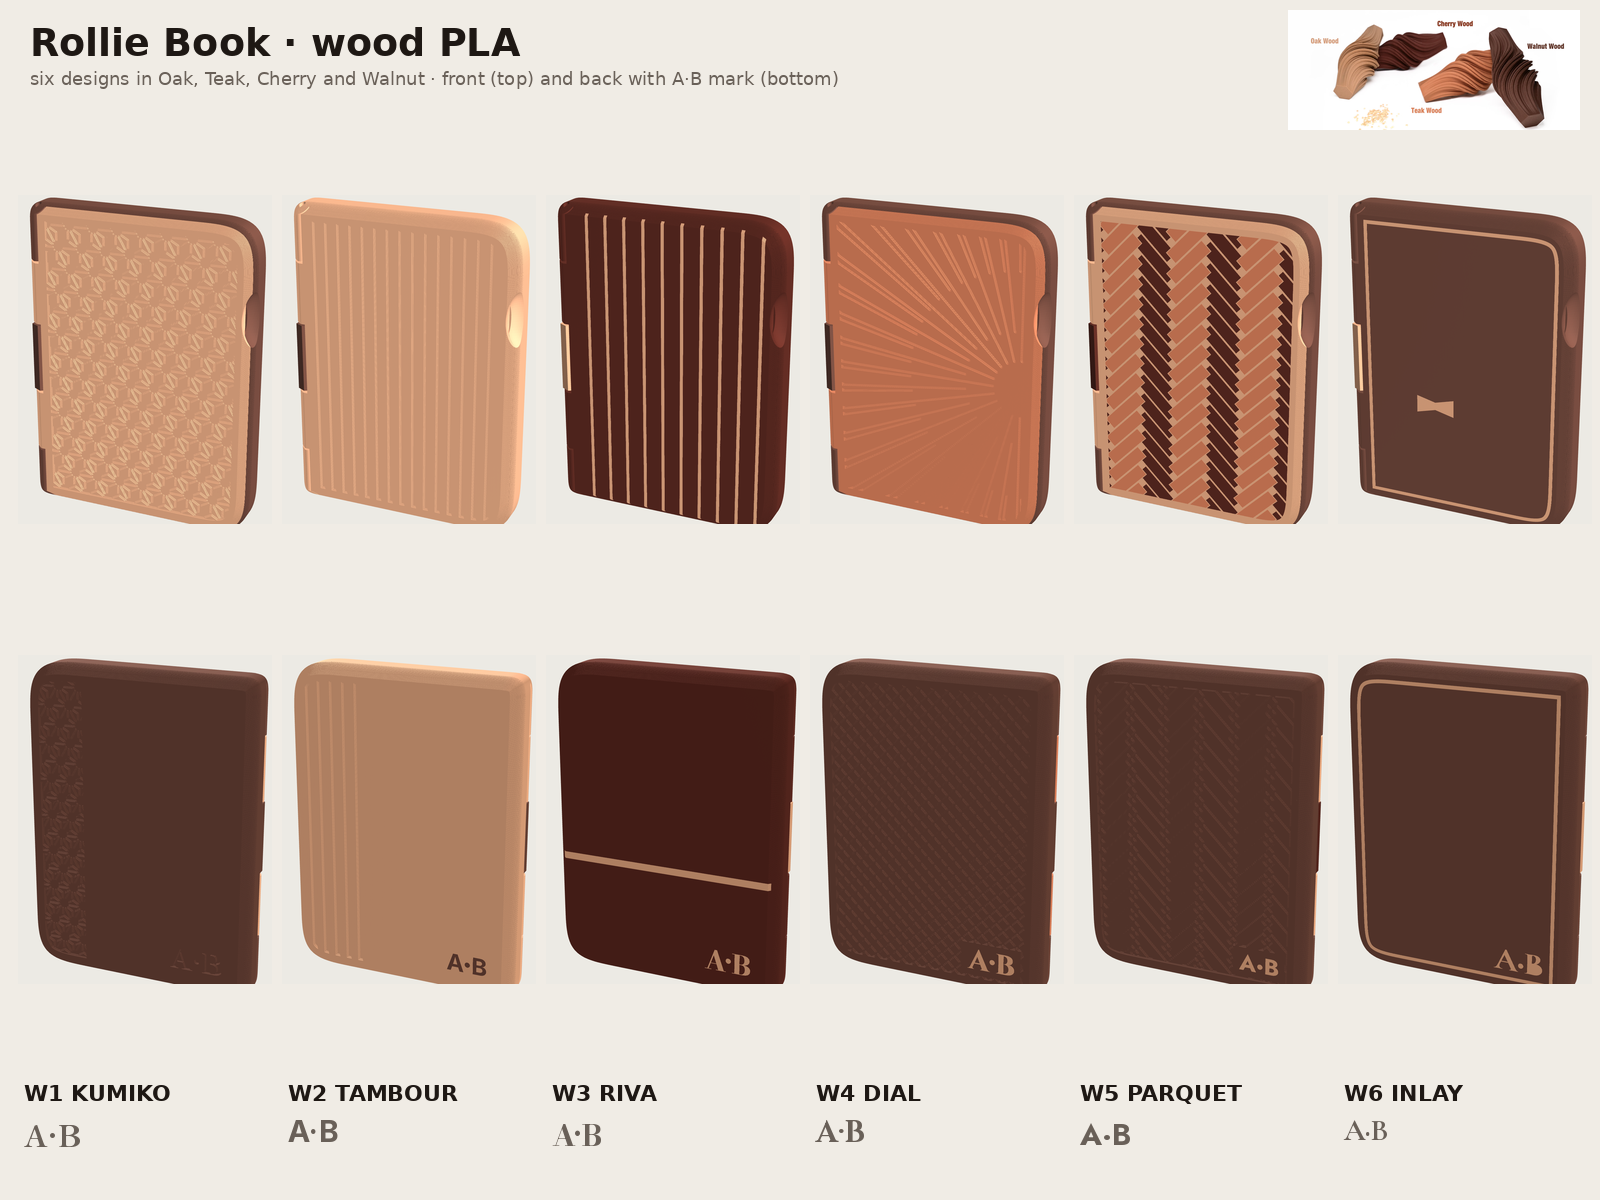
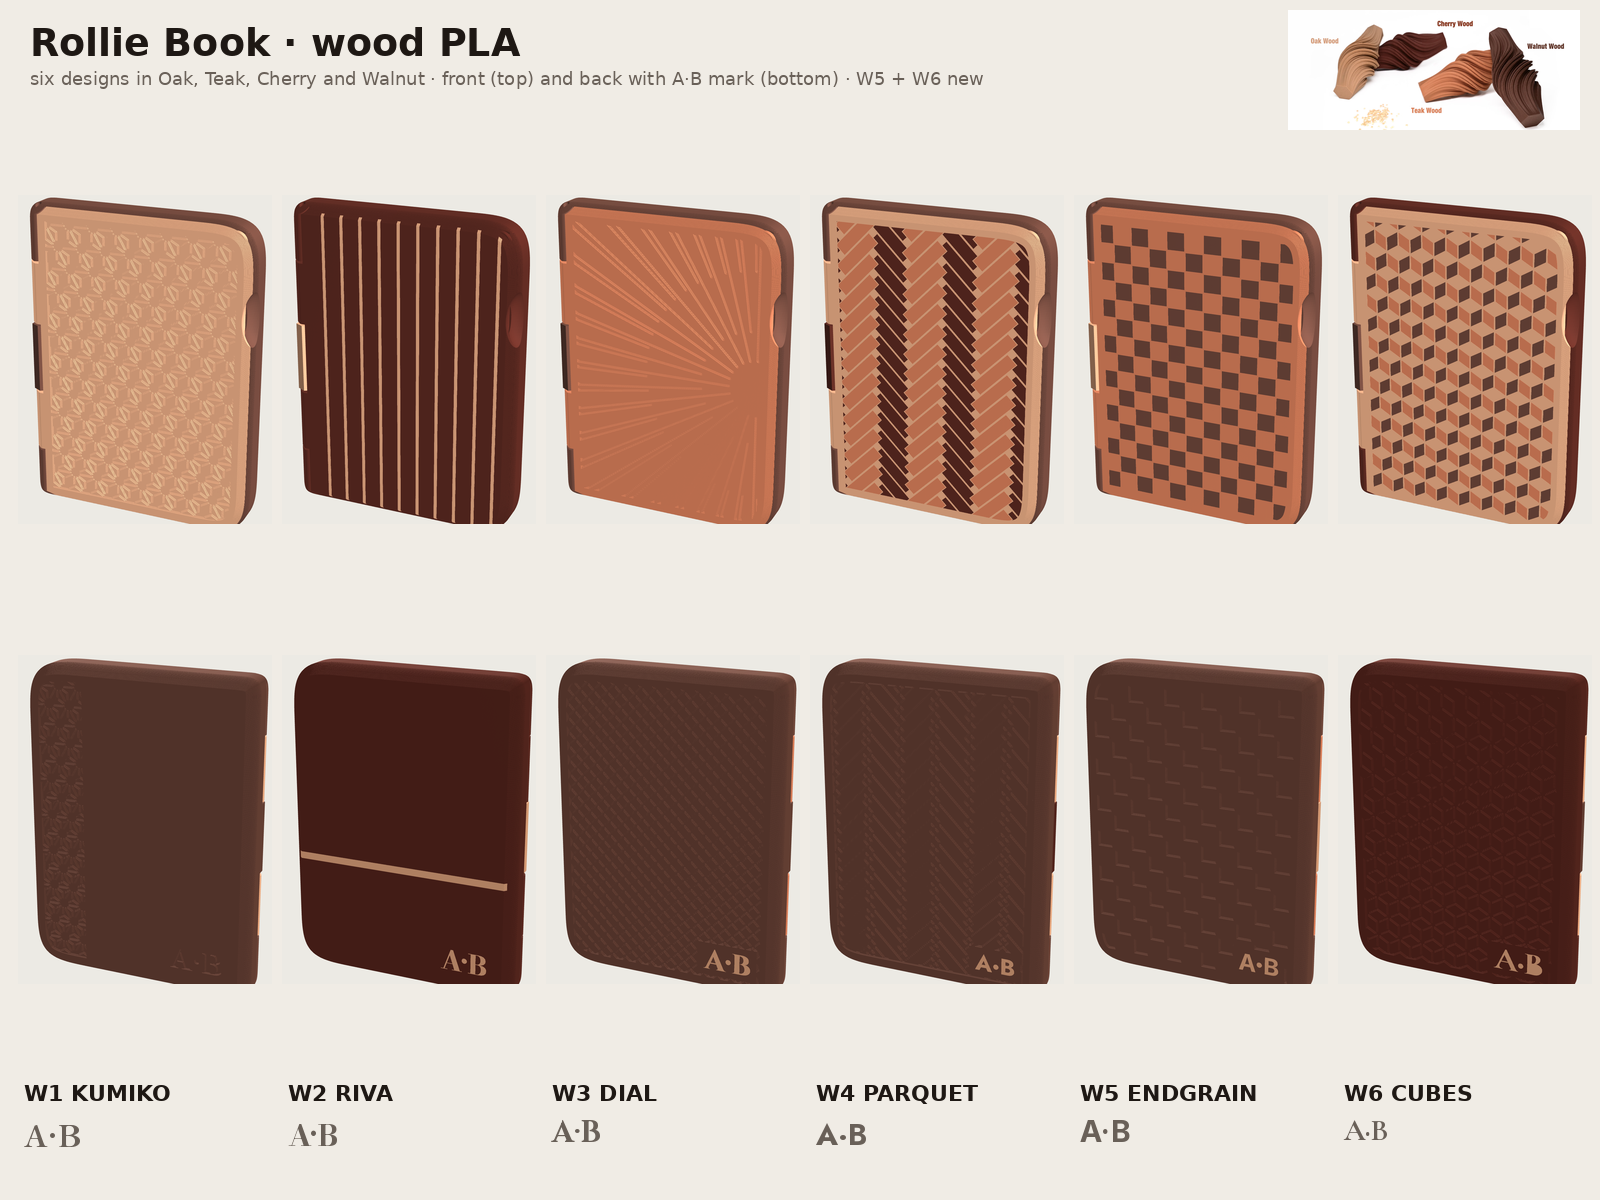
Wood PLA: ENDGRAIN + CUBES designs (replace TAMBOUR + INLAY), print guide, handover
- w_concepts: ENDGRAIN (teak lid with walnut chequer, walnut base with the chequer
  engraved tone-on-tone, Inter) and CUBES (oak/teak/walnut tumbling-block marquetry,
  cherry base with engraved cube outlines, Garamond). Both pass v7.checks with and
  without initials. Renders and boards W0-W6 regenerated (2 mm ends).
- wood-3mf/README.md: owner print guide (AMS slots, pauses at screen layers ~22/~87,
  polarity, glue procedure for the test files, verification summary, benign notes).
- HANDOVER: new section 0a for the wood line, incl. the import-order lesson.

Claude-Session: https://claude.ai/code/session_01YJ772HEYvenC3FkJzdBq79

diff --git a/edc-cigarette-case/v7-65x15x88/src/w_concepts.py b/edc-cigarette-case/v7-65x15x88/src/w_concepts.py
@@ -105,7 +105,7 @@ def tumbling_blocks(region, s=4.0, gap=0.4):
 
 def w_endgrain(k):
     F, B = full(k, 'f'), full(k, 'b')
-    return {'front': [(chequer(F), 'acc1')], 'back': [(grid_lines(B), 'engrave')]}
+    return {'front': [(chequer(F, c=5.2), 'acc1')], 'back': [(chequer(B, c=5.2, gap=0.9), 'engrave')]}
 def w_cubes(k):
     F, B = full(k, 'f'), full(k, 'b')
     lf, rf, _ = tumbling_blocks(F)
@@ -129,10 +129,10 @@ DESIGNS = {
                  font='Jost-Bold.ttf', fontname='Jost (Futura-like, European modernism)', cap=5.0, thick=0.0, fn=w_parquet,
                  idea='Marquetry: a herringbone of teak and cherry staves laid into an oak lid, the oak showing as fine joints. All four woods in one case; the walnut back carries the pattern engraved.',
                  front='Teak and cherry herringbone with oak joints', back='Engraved herringbone outlines; oak A·B in the corner'),
- 'endgrain': dict(name='ENDGRAIN', craft='Danish end-grain butcher blocks', cover='oak', tray='teak', sleeve='walnut', acc1='walnut', mono='walnut',
+ 'endgrain': dict(name='ENDGRAIN', craft='End-grain butcher blocks and two-tone chequered luggage canvas', cover='teak', tray='walnut', sleeve='oak', acc1='walnut', mono='oak',
                  font='Inter-Bold.ttf', fontname='Inter (Helvetica-like, Scandinavian modern)', cap=5.0, thick=0.0, fn=w_endgrain,
-                 idea='The lid is a butcher block seen end-on: an oak and walnut chequer, edge to edge. The teak base carries the block joints as a fine engraved grid.',
-                 front='Oak and walnut chequer, full face', back='Engraved block grid; walnut A·B in the corner'),
+                 idea='Two browns, one fine chequer: walnut blocks set into a teak lid like an end-grain board, the quiet two-tone check of old travel trunks. The walnut base repeats the chequer, engraved tone-on-tone.',
+                 front='Teak and walnut chequer, full face', back='Engraved chequer, tone-on-tone; oak A·B in the corner'),
  'cubes':   dict(name='CUBES', craft='18th-century French marquetry à cubes (tumbling blocks)', cover='oak', tray='cherry', sleeve='walnut', acc1='walnut', acc2='teak', mono='oak',
                  font='CormorantGaramond-Bold.ttf', fontname='Garamond (the French ébénistes’ typeface)', cap=6.0, thick=0.12, fn=w_cubes,
                  idea='Stacked cubes in three woods: oak tops, teak and walnut sides, the 3D illusion of Louis XV marquetry. A cherry base with the cube outlines engraved.',

diff --git a/edc-cigarette-case/v7-65x15x88/src/render/w_board.py b/edc-cigarette-case/v7-65x15x88/src/render/w_board.py
@@ -48,13 +48,13 @@ for n, k in enumerate(order, 1):
         d.text((x, y), title, fill=INK, font=F(15, True)); y += 23
         for line in textwrap.wrap(c[key], 44): d.text((x, y), line, fill=INK, font=F(16)); y += 22
         y += 6
-    d.text((x, 1120), 'rounded inside · 3 mm ends · light infill', fill=SUB, font=F(14))
+    d.text((x, 1120), 'rounded inside · 2 mm ends · light infill', fill=SUB, font=F(14))
     d.text((x, 1142), '2 × Ø5×2 magnets per half, corners, ≈175 g close', fill=SUB, font=F(14))
     d.text((x, 1164), 'crescent thumb scoop · pinch zone · 65 × 13.5 × 88', fill=SUB, font=F(14))
     im.save(f'{OUT}/W{n}_{k}.png')
 im = Image.new('RGB', (1600, 1200), BG); d = ImageDraw.Draw(im)
 d.text((30, 20), 'Rollie Book · wood PLA', fill=INK, font=F(38, True))
-d.text((30, 68), 'six designs in Oak, Teak, Cherry and Walnut · front (top) and back with A·B mark (bottom)', fill=SUB, font=F(18))
+d.text((30, 68), 'six designs in Oak, Teak, Cherry and Walnut · front (top) and back with A·B mark (bottom) · W5 + W6 new', fill=SUB, font=F(18))
 if PHOTO:
     p = fit(Image.open(PHOTO).convert('RGB'), 420, 120); im.paste(p, (1600 - 20 - p.width, 10))
 for i, k in enumerate(order):

diff --git a/edc-cigarette-case/v7-65x15x88/wood-3mf/README.md b/edc-cigarette-case/v7-65x15x88/wood-3mf/README.md
@@ -1,0 +1,101 @@
+# Rollie Book · wood PLA · print files (A1 + AMS lite)
+
+Ten Bambu Studio projects:
+- **8 production files:** the 4 approved designs, each with and without A·B.
+- **2 test prints** to run before the magnets arrive.
+
+Every file is one plate, printed **by object**, on the **0.16 mm High Quality @BBL A1** profile, with **Bambu PLA Wood @BBL A1** in all four slots.
+
+## Load the AMS lite once, the same for every design
+| Slot | 1 | 2 | 3 | 4 |
+|---|---|---|---|---|
+| Wood | **Oak** | **Teak** | **Cherry** | **Walnut** |
+
+Use the **textured PEI plate**. Each file has a 3 mm brim, no supports and no prime tower (the A1 purges into its chute).
+
+## The files
+
+**Production** (magnets sealed in, self-pausing):
+
+| Design | With A·B | Without initials | Woods used | Colour swaps | Time* | Filament* |
+|---|---|---|---|---|---|---|
+| **KUMIKO** | `AB_Rollie_Book_Kumiko_wood_A1.3mf` | `Rollie_Book_Kumiko_wood_A1_no_initials.3mf` | Oak, Walnut | 2 | 1 h 41 m | 34 g |
+| **RIVA** | `AB_Rollie_Book_Riva_wood_A1.3mf` | `Rollie_Book_Riva_wood_A1_no_initials.3mf` | Cherry, Oak | 11 | 1 h 44 m | 34 g |
+| **DIAL** | `AB_Rollie_Book_Dial_wood_A1.3mf` | `Rollie_Book_Dial_wood_A1_no_initials.3mf` | Teak, Walnut (+ Oak A·B) | 7 / 2 | 1 h 55 m / 1 h 50 m | 35 g |
+| **PARQUET** | `AB_Rollie_Book_Parquet_wood_A1.3mf` | `Rollie_Book_Parquet_wood_A1_no_initials.3mf` | all four | 16 / 12 | 2 h 09 m / 2 h 05 m | 35 g |
+
+**Test prints** (magnets glued in afterwards, no pauses):
+
+| Design | File | Time* | Filament* |
+|---|---|---|---|
+| **KUMIKO** | `TEST_AB_Rollie_Book_Kumiko_wood_A1_glue_magnets.3mf` | 1 h 38 m | 29.5 g |
+| **RIVA** | `TEST_AB_Rollie_Book_Riva_wood_A1_glue_magnets.3mf` | 1 h 37 m | 28.8 g |
+
+\* Times and weights come from the A1-emulated slice. Bambu Studio's estimate will run longer on the multi-colour files: each colour swap adds about a minute, and each purge 0.2–0.5 g.
+
+## Production files: the magnet pauses
+You need **4 × Ø5 × 2 mm magnets** per case.
+
+**The pauses:**
+- The printer **chimes and pauses itself twice**: first on the **cover** (screen layer ≈ **22**, z 3.56), then on the **tray** (screen layer ≈ **87**, z 8.36).
+- At each pause, drop **both** magnets into the two round corner pockets, press them flat, then press **Resume**.
+- **If a pause doesn't happen,** pause by hand as soon as the screen shows layer 22 or 87. The pocket is still open at that point.
+
+**Polarity** (do this once, before printing):
+1. Stack all four magnets in one column.
+2. Mark the **top** face of each one with a pen.
+3. **Cover:** marked face **UP**. **Tray:** marked face **DOWN**.
+
+The two halves then attract when the case is closed. 0.8 mm of wood (5 layers) seals over each magnet. The pull is about 175 g (N35 estimate).
+
+## Test files: how they differ, and how to glue
+| | Production | **Test** |
+|---|---|---|
+| Magnets | Sealed in at a pause | **Pockets left open**: glue the magnets in afterwards |
+| Pauses | 2, with chime | **None** |
+| Walls / infill | 3 walls, 15 % gyroid | **2 walls, 10 % gyroid** |
+| Shells | Top 5 (min 1.0 mm), bottom 4 | **Top 5 (min 0.8 mm), bottom 3** |
+| Shape, patterns, A·B, hinge | — | **Identical** |
+| Filament | — | **About 12–16 % less** |
+
+The case is mostly solid wall, so lighter infill only saves 4–6 g per case. The test is still representative:
+- **Fit:** the hinge, closure and rollie fit are exactly as in production.
+- **Pull:** the pocket floor is at the production magnet depth, so with the magnet glued to the floor the pull matches production.
+
+**Gluing (super glue / CA gel):**
+1. Lay the parts **inside-up**, the way they came off the plate.
+2. Put a small drop of glue on the **floor** of each pocket.
+3. Drop the magnet in using the same polarity rule as production: **cover marked UP, tray marked DOWN**.
+4. Push it flat with a **toothpick**. Steel tweezers will pull it back out.
+5. **Let the glue cure for 5–10 minutes before closing the case.** Uncured magnets jump out of their pockets towards each other.
+
+## Wood PLA notes
+- **Nozzle:** use a **hardened-steel nozzle**. Wood fibres are mildly abrasive and can clog. Go up to 0.6 mm if you get clogs.
+- **Drying:** dry the spools first (55 °C, 8 h).
+- **Temperatures:** the preset prints at 220 °C, with the bed at 65 °C.
+- **Hinge pin:** use 1.75 mm **PETG** filament.
+- **Heat:** PLA softens at about 55–60 °C, so **don't leave the case in a hot car**.
+
+## How these were checked
+Each file was checked by `src/w_verify.py`, which reads **only the 3MF**. All 10 print **ALL PASS**; the full reports are in `checks/`. The checks:
+1. **Bambu loader check**, emulated from Bambu's source at v02.03.01.51, v02.08.04.61 and v02.09.01.70. The output is identical to the 26-flag baseline that loads fine.
+2. **Settings:**
+   - the same 366 keys, in the same order, as the v7.0 file that opened in Bambu Studio;
+   - 4 × Bambu PLA Wood;
+   - by object, with no prime tower.
+3. **Plate:**
+   - print order is cover → tray → sleeve;
+   - every mesh is valid;
+   - A1 by-object clearance is met;
+   - every inlay and the A·B sit in the first 5 layers, so there are no colour swaps up the walls;
+   - the R4.5 rounded long edges are present.
+4. **Magnet pockets,** sliced layer by layer:
+   - **Production:** open on every layer up to each pause and sealed by the layer the printer pauses before.
+   - **Test:** open from the floor right up to the face.
+5. **A1-emulated slice of the file itself:**
+   - **Production:** exactly 2 pauses, cover then tray, at the right layer.
+   - **Test:** no pauses.
+
+**Expected slicer notes (benign):**
+- **"Floating bridge anchors"** on each production cover: this is the 5-layer roof over the sealed magnet pocket. The magnet sits 0.24 mm under it, and the note disappears in the open-pocket test files.
+- **"Long bridging" / "Loose extrusions"** on parts with **engraved** patterns (KUMIKO, the DIAL and PARQUET backs): these are the 45° stepped groove ceilings in the first 3 face-down layers. An A/B slice placed them all below z 0.7 and showed they don't depend on infill. RIVA has no engraving and shows neither.

diff --git a/edc-cigarette-case/HANDOVER.md b/edc-cigarette-case/HANDOVER.md
@@ -1,6 +1,6 @@
 # HANDOVER: EDC rollie case ("AB Rollie Book"). Read this first.
 
-> **Written 22 Nov 2026, 15:40 UTC; updated 23 Nov 2026 for v7.1 (first-print feedback).** This file is self-contained: a new session with only this repository can pick up the work, rebuild every file byte-for-byte, and continue. Every command below was run and checked before handover.
+> **Written 22 Nov 2026, 15:40 UTC; updated 23 Nov 2026 for v7.1 (first-print feedback) and 24 Nov 2026 for the wood PLA line (§0a, read that first).** This file is self-contained: a new session with only this repository can pick up the work, rebuild every file byte-for-byte, and continue. Every command below was run and checked before handover.
 
 ---
 
@@ -16,6 +16,46 @@
 | **Backup fallback files** | `..._geometry_only_<design>.3mf`. Same parts and filaments, no print profile, so it uses the owner's own A1 presets and has **no automatic pauses**: pause by hand at screen layers 25 and 82. |
 | **Repo** | `grishatg/3D-PRINTS`, folder `edc-cigarette-case/`. v7.0 arrived via merged PR grishatg/3D-PRINTS#1. v7.1 is on branch **`claude/hopeful-thompson-ysz39k`**, in draft PR **grishatg/3D-PRINTS#2** (https://github.com/grishatg/3D-PRINTS/pull/2). If that PR has been merged, `main` has everything. |
 | **Backup** | The original home was `grishatg/General-`, branch `claude/elegant-turing-9djtl2`. That branch is kept as a backup, with a copy of this handover; its PR (grishatg/General-#3) was closed, not merged, when the project moved. |
+
+---
+
+## 0a. Wood PLA line (24 Nov 2026): the CURRENT work. Read this before §0
+
+**What the owner prints now:** wood PLA (Bambu PLA Wood: Oak, Teak, Cherry, Walnut) on the **v10 platform**. §0–§8 describe the PETG v7.1 line, which still stands and still rebuilds identically.
+
+**The v10 platform** is `PLATFORM=v10` plus the env that `v8_concepts` / `v9_concepts` / `w_concepts` set:
+- **Shape:** squircle outline, R4.5 rounded long edges, crescent thumb scoop, pinch dishes.
+- **Ends and inside:** **2 mm** end walls (owner: "go 2mm"); rounded inside (cavity R2.5, floor fillet R1.2, capsule ribs, rounded lip).
+- **Magnets:** two **Ø5 × 2** magnets per half, at the opening-edge corners, sealed under **0.8 mm**. The estimated pull is about 175 g (owner target 150–200 g).
+- **A·B:** a maker's mark in the back-plate corner on the hinge side, in the first 4 face-down layers.
+
+| Item | Where / state |
+|---|---|
+| **Designs** | `v7-65x15x88/wood-designs/` (boards W0–W6 + README).<br>• **Approved:** W1 KUMIKO, W2 RIVA, W3 DIAL, W4 PARQUET.<br>• **Awaiting approval:** W5 ENDGRAIN, W6 CUBES (they replace TAMBOUR and INLAY, which the owner rejected).<br>Design code: `src/w_concepts.py` (`DESIGNS`). |
+| **Print files** | `v7-65x15x88/wood-3mf/` (README = owner print guide).<br>• **8 production files:** 4 approved designs × with / without A·B. They pause and chime at **screen layer ≈ 22 (cover, z 3.56)** and **≈ 87 (tray, z 8.36)**; both magnets go in at each pause.<br>• **2 test files:** `TEST_..._glue_magnets.3mf`, KUMIKO + RIVA. `MAGNET_MODE=glue` leaves the pockets open to the face with the floor at the production depth. No pause; 2 walls, 10 % infill, 0.8 mm top minimum (~12–16 % less filament). |
+| **AMS slots** | Fixed for every design: **1 Oak, 2 Teak, 3 Cherry, 4 Walnut**. |
+| **Exporter** | `src/w_export.py <out> <template_dir> <design> <initials\|noinit> <production\|test>`. It reuses `v7_a1_export.layout()` / `pause_block()` and calls `a1_safe.project_config(..., fil_name='Bambu PLA Wood @BBL A1', flush=4x4)`. The template dir is the unzipped v7.0 file `superseded/v7.0-first-print/AB_Rollie_Book_v7_A1_by_object.3mf`. |
+| **Verifier** | `src/w_verify.py <file.3mf> <work_dir>` reads **only the file**:<br>• loader check vs `test-slice/bambu_loader_check_baseline.txt`;<br>• settings and key order;<br>• plate;<br>• R4.5 edges and inlays-in-first-5-layers;<br>• pockets layer by layer (embed or glue);<br>• A1-emulated PrusaSlicer slice of the file's own meshes, with pause positions.<br>It must print `ALL PASS`. The reports for the shipped files are in `wood-3mf/checks/`. |
+| **Expected slicer notes** | • "Floating bridge anchors" on production covers: the sealed-pocket roof.<br>• "Long bridging" / "Loose extrusions" on parts with **engraved** patterns: 45° stepped groove ceilings below z 0.7, proven by A/B clipped slices.<br>Both are benign. |
+| **Next action** | 1. Owner test-prints the two TEST files and glues the magnets.<br>2. Ask about: hinge, closure pull, rollie fit, crescent / pinch feel, inlay and engraving quality in wood PLA, warping.<br>3. Owner approves (or not) ENDGRAIN / CUBES; then build their 3MFs with `w_export.py` and verify. |
+
+**Rebuild one file** (from `v7-65x15x88/`; `tmpl` = the unzipped v7.0 3MF):
+```bash
+(cd src && python3 w_export.py ../wood-3mf <tmpl> kumiko initials production)
+```
+```bash
+QT_QPA_PLATFORM=offscreen python3 src/w_verify.py wood-3mf/AB_Rollie_Book_Kumiko_wood_A1.3mf /tmp/v_kumiko
+```
+
+**Lesson (cost one bad send, 24 Nov): `v7.py` reads its env switches at IMPORT time.**
+- `w_export.py` first imported `v7` before `w_concepts`. That built the files on the **old v7 platform**: round corners, R3 edges, no crescent or pinch, A·B on the bottom end. The renders were right, because `w_concepts` was imported first there.
+- **The fix:**
+  - import `w_concepts` first;
+  - `w_export.py` now **asserts** the platform flags;
+  - `w_verify.py` checks the edge radius (first-layer inset 2.6–2.75 mm a side vs 1.7–2.0 for R3) and that every inlay ends by z 0.84.
+- **Any new entry script must import the concept module before `v7`.**
+
+**Renders:** run `src/w_concepts.py <render_dir> <design> [noinit]`, then `node src/render/shotw.js <render_dir>/w_<design> front,back,open,inside,mark` (needs `http.server` on port 8770 serving `<render_dir>` with `view.html`), then `src/render/w_board.py`.
 
 ---
 

diff --git a/edc-cigarette-case/v7-65x15x88/wood-designs/README.md b/edc-cigarette-case/v7-65x15x88/wood-designs/README.md
@@ -1,17 +1,28 @@
-# Rollie Book · wood PLA: six designs (renders only, no 3MF yet)
+# Rollie Book · wood PLA: six designs
 
 ![overview](W0_overview.png)
 
-Six designs in the four wood PLA tones from your photo: **Oak, Teak, Cherry, Walnut**. Four tones means all four AMS lite slots. Each design takes its cue from a wood craft or brand. Its **A·B** uses a typeface from the same world, placed as a **maker's mark in the bottom corner of the back plate**, on the hinge side. **Every design also comes without initials.**
+Six designs in the four wood PLA tones from your photo: **Oak, Teak, Cherry, Walnut**. Four tones means all four AMS lite slots.
+- Each design takes its cue from a wood craft or brand.
+- Its **A·B** uses a typeface from the same world, placed as a **maker's mark in the bottom corner of the back plate**, on the hinge side.
+- **Every design also comes without initials.**
+
+**Status (24 Nov):**
+- **W1–W4 are approved and built.** Their print files are in [`../wood-3mf/`](../wood-3mf/README.md).
+- **W5 ENDGRAIN and W6 CUBES are new.** They replace TAMBOUR and INLAY and need your approval. Once you approve, their 3MFs come from the same exporter in minutes.
 
 | # | Design | Inspired by | Woods | A·B typeface |
 |---|---|---|---|---|
 | W1 | **KUMIKO** | Japanese kumiko joinery (asanoha lattice) | Oak lid, Walnut base | Shippori Mincho (Japanese foundry serif), engraved |
-| W2 | **TAMBOUR** | B&O Beosound Balance oak lamellas, tambour cabinets | All Oak, Walnut hinge | Inter (Helvetica-like), inlaid Walnut |
-| W3 | **RIVA** | Riva Aquarama mahogany decks with pale seams | Cherry, Oak seams | Bodoni (Italian), inlaid Oak |
-| W4 | **DIAL** | Swiss watch dials: sunburst and clous de Paris | Teak lid, Walnut base | Cinzel (Roman capitals, as on casebacks), inlaid Oak |
-| W5 | **PARQUET** | European herringbone parquet (marquetry) | Teak + Cherry staves laid in an Oak lid (oak shows as the joints), Walnut base: **all four woods** | Jost (Futura-like), inlaid Oak |
-| W6 | **INLAY** | English cabinetmaking: stringing + butterfly key | Walnut, Oak stringing | Garamond, inlaid Oak |
+| W2 | **RIVA** | Riva Aquarama mahogany decks with pale seams | Cherry, Oak seams | Bodoni (Italian), inlaid Oak |
+| W3 | **DIAL** | Swiss watch dials: sunburst and clous de Paris | Teak lid, Walnut base | Cinzel (Roman capitals, as on casebacks), inlaid Oak |
+| W4 | **PARQUET** | European herringbone parquet (marquetry) | Teak + Cherry staves laid in an Oak lid (oak shows as the joints), Walnut base: **all four woods** | Jost (Futura-like), inlaid Oak |
+| W5 | **ENDGRAIN** · new | End-grain butcher blocks; the quiet two-tone check of old travel trunks | Teak lid with Walnut blocks, Walnut base with the chequer engraved tone-on-tone, Oak hinge | Inter (Helvetica-like), inlaid Oak |
+| W6 | **CUBES** · new | 18th-century French marquetry *à cubes* (tumbling blocks) | Oak / Teak / Walnut cubes on the lid (a 3D illusion), Cherry base with the cube outlines engraved: **all four woods** | Garamond (the French ébénistes' typeface), inlaid Oak |
+
+**Why these two:** you kept the four all-over patterns and dropped the two quiet ones (stringing and flutes), so both replacements are all-over marquetry.
+- **ENDGRAIN** is the calm one: two browns, one fine chequer.
+- **CUBES** is the showpiece: three woods make each block look solid.
 
 **Initials placement:**
 - The mark sits on the back plate, which prints face-down. It therefore uses the same first 4 layers as the other inlays.
@@ -23,7 +34,7 @@ Six designs in the four wood PLA tones from your photo: **Oak, Teak, Cherry, Wal
 ## New inside (all six): your 24 Nov feedback
 | | Before (v7.1) | **Now** |
 |---|---|---|
-| End walls | 9 mm solid blocks | **3 mm**. Channels go from 70 to ~82 mm long, so standard 70 mm papers fit, not just 60 mm rollies. |
+| End walls | 9 mm solid blocks | **2 mm** (24 Nov). Channels go from 70 to ~84 mm long, so standard 70 mm papers fit, not just 60 mm rollies. |
 | Infill | 100% everywhere | **Light: about 15% gyroid** (set when the 3MF is built). With thin walls, most of the case is solid perimeters anyway. |
 | Inside edges | Sharp | **All rounded:**<br>• cavity corners R2.5<br>• floor fillet R1.2<br>• rim round-over R0.5<br>• rib tops and ends fully rounded (capsule ribs)<br>• lip fully rounded on top<br>• chamfered magnet sockets and bosses |
 | Magnets | One Ø9.53 × 2.53 pair, centre of the opening edge | **Two Ø5 × 2 pairs, one at each opening-edge corner.** The case closes evenly at both ends instead of pivoting round one centre magnet. The middle of the opening side becomes **one long filter-tip bay**. |
